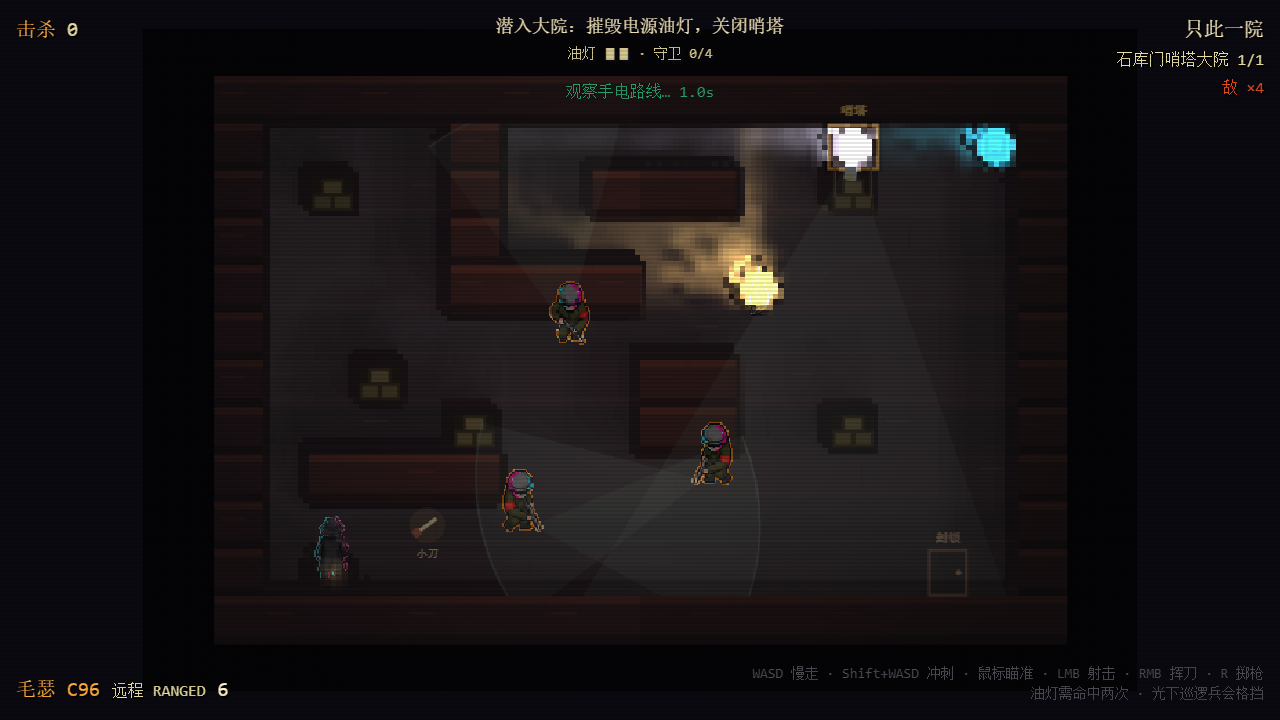
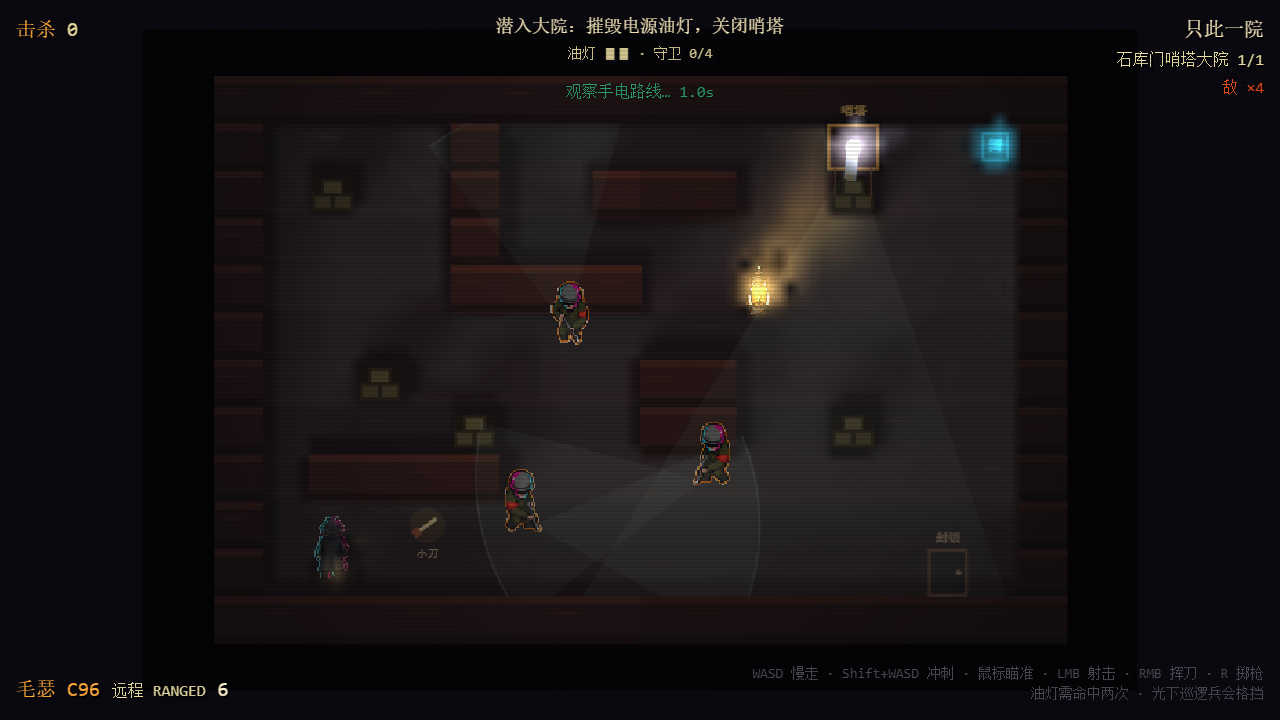
fix(hotline): v3.10 smooth RC — 16-ray probes, bilinear radiance, soft seeds
用户实拍反馈 RC 光太粗/伪影,四个成因逐项修复(B63):

1. 块状边缘:final.frag 取最近 probe 块角点,每个 4×4 屏幕块一个值 →
   光池边缘 4px 楼梯块。修复:双线性插值 4 个相邻 probe
   (probe 网格坐标 = texel/4-0.5,按 frac 混合)。

2. 星形臂:4 ray/probe 只在 4 条对角线上命中远距种子 → 光池 45° 星形臂。
   修复:16 ray/probe(22.5° 间隔,臂连成连续圆盘;块边长 2^(c+1)→2^(c+2),
   interval 每 texel = 1 条射线、成本不变,仅探针间距 2→4 工作像素)。

3. 环形硬缘:硬边实心种子盘经传播形成可见圆形光圈。修复:静态灯种子 =
   软边平方衰减盘(0.5 格),fillSoftDisk 增加亮度地板参数。

4. 光传不远:软边盘的零亮度盘缘让远距级联命中零亮度 → 光池缩到 ~0.5u
   (光源半径 3.5u 完全不达,e2e 灯亮/灭对比 17.7 卡门 18)。修复:
   盘缘亮度地板 0.3 + RC_LIGHT_SCALE 1.35→1.45。

实测(品红染色探针):质心偏移 -14px → +2px;径向剖面单调圆滑无平台段;
池形圆润、无臂无孔,沿房间开敞方向延伸 ~65px;e2e 灯亮/灭对比 19.6。
用户视口(1122x1404)自拍 smoke/rc-final-{title,play,play-fixed}.png 供对比。

验证:tsc 0 error / rc-fix 5/5 / rc-lab RC_LAB+PORT 35/35 / e2e 4/4 /
combat-loop / intro-polish / self-play 2/2(真实 RMB 拆灯,池亮度 116→39)

diff --git a/7_hotlineShanghai/src/engine/RcPresenter.ts b/7_hotlineShanghai/src/engine/RcPresenter.ts
@@ -193,7 +193,9 @@ export class RcPresenter {
         // v3.8:种子盘半径 0.2→0.4 格(c1/c2 级联射线从 6/30px 起步,0.2 格≈3.4px 工作半径
         // 的种子会让粗级联在 SDF 行走中全部脱靶,合并回传黑块 → 光池出现孔洞/星形伪影;
         // 0.4 格≈6.9px 工作半径,c1(6px)直接落在盘内命中,粗级联不再吞光)
-        this.fillDisk(emission, sox + lightVisual.x * scale, soy + lightVisual.y * scale, Math.max(3, scale * 0.4), r, g, b);
+        // v3.10:软边平方衰减盘(0.5 格)+ 0.3 亮度地板:光池核心无硬缘,
+        // 且远距级联命中盘缘时仍有可传播的亮度(否则光池缩到 ~0.5u)
+        this.fillSoftDisk(emission, sox + lightVisual.x * scale, soy + lightVisual.y * scale, Math.max(3, scale * 0.5), r, g, b, 0.3);
       }
       // v3.7: 瞬时光源（muzzle flash / 爆炸 / 血花等）在 activeLights 里，必须写入
       // emission 种子平面，否则枪口闪光完全不会进入 RC 光照。
@@ -214,9 +216,9 @@ export class RcPresenter {
         const b = Math.min(255, Math.round(parseInt(hex.slice(4, 6), 16) * gain));
         const lightVisual = visualCenter(light.position);
         // 枪口/爆炸这类瞬时光只做紧凑种子,RC 传播会负责扩散;
-        // 与静态灯同步提高到 0.4 格,保证粗级联能命中(否则光池带孔/偏移)。
-        const radius = Math.max(3, scale * 0.4);
-        this.fillDisk(emission, sox + lightVisual.x * scale, soy + lightVisual.y * scale, radius, r, g, b);
+        // v3.10:软边盘(0.45 格),瞬时光斑无硬缘
+        const radius = Math.max(3, scale * 0.45);
+        this.fillSoftDisk(emission, sox + lightVisual.x * scale, soy + lightVisual.y * scale, radius, r, g, b);
       }
     }
     const frame = {
@@ -281,16 +283,19 @@ export class RcPresenter {
     }
   }
 
-  // 软边光斑:中心满强度 → 边缘 0 的平方衰减。硬边实心盘经 RC 传播/双线性上采样后
+  // 软边光斑:中心满强度 → 边缘 floor 的平方衰减。硬边实心盘经 RC 传播/双线性上采样后
   // 会形成可见的环形"选中光圈";平方衰减让随身灯只作局部提亮,不产生圆环。
-  private fillSoftDisk(image: ImageData, cx: number, cy: number, radius: number, r: number, g: number, b: number): void {
+  // v3.10:可选 floor 参数——静态灯的种子盘需要亮度地板,否则远距离级联射线
+  // 命中的是零亮度的盘缘,光根本传播不出盘(光池只到 ~0.5u);floor=0.3 让
+  // 边缘命中仍有 30% 亮度,光池按 (1-d/r)^2 平滑延伸到光源半径。
+  private fillSoftDisk(image: ImageData, cx: number, cy: number, radius: number, r: number, g: number, b: number, floor = 0): void {
     const rr = radius * radius;
     for (let y = Math.max(0, Math.floor(cy - radius)); y <= Math.min(image.height - 1, Math.ceil(cy + radius)); y += 1) {
       for (let x = Math.max(0, Math.floor(cx - radius)); x <= Math.min(image.width - 1, Math.ceil(cx + radius)); x += 1) {
         const d2 = (x - cx) ** 2 + (y - cy) ** 2;
         if (d2 > rr) continue;
         const falloff = 1 - Math.sqrt(d2) / radius;
-        const gain = falloff * falloff;
+        const gain = floor + (1 - floor) * falloff * falloff;
         this.setPixel(image, x, y, Math.round(r * gain), Math.round(g * gain), Math.round(b * gain));
       }
     }

diff --git a/7_hotlineShanghai/src/engine/RcPipeline.ts b/7_hotlineShanghai/src/engine/RcPipeline.ts
@@ -675,7 +675,7 @@ export class RcPipeline {
     const requestedScale = this.pendingResolutionScale;
     const scaledW = Math.max(1, Math.round(w * requestedScale));
     const scaledH = Math.max(1, Math.round(h * requestedScale));
-    const blockMax = Math.pow(2, this.currentCascadeCount + 1);
+    const blockMax = Math.pow(2, this.currentCascadeCount + 2);
     const atlasH = Math.ceil(scaledH / blockMax) * blockMax;
     if (
       w === this.sourceW &&

diff --git a/7_hotlineShanghai/BUGS.md b/7_hotlineShanghai/BUGS.md
@@ -76,6 +76,7 @@
 | B60 | MED | RC/visual | 屏幕抖动期间光池与场景脱开:sceneColor 从已抖动的 source canvas 抓取,但 emission/occlusion 平面按未抖动世界坐标绘制(shake 只作用于 roomRect)→ 灯碎/杀敌的 0.12s 抖动内灯池错位 ±5px | 打灯瞬间截图对比灯位与光池 | FIXED(2026-08-13:RcPresenter 的 emission/occlusion 全部按含抖动的 sox/soy 绘制;静态遮挡缓存抖动帧做全平面平移 translatePlane) |
 | B61 | LOW | tooling/test | `rc-fix-selfcheck.spec.js` 的 seedCenter/peak/centroid/playerRcPeaks 用 float 中心值做数组索引(±8px 循环边界未取整)→ `Uint8Array[float]` = undefined → 全部测量 NaN/空(seed:null、sw:0),自检形同虚设 | 读 PLACEMENT_AUDIT 输出全是 null | FIXED(2026-08-13:全部循环边界 Math.round;修复后油灯种子实测 (445.0,188.0) vs 期望 (445.3,188.3),误差 0.3px) |
 | B62 | TEST | engine/input | doc-25 §8 长期欠账"真键鼠 E2E gate":旧 e2e 用 sim 位置注入绕过真实输入路径 | 对照 doc-25 §8 | FIXED(2026-08-13:`scripts/self-play.spec.js` + `npm run self-play:check`:真实 keydown/keyup 走位 + 真实鼠标 aim + 真实 RMB 近战拆灯(HP 2→1→0,RC 池亮度 160→44)+ 走出口 SCORE;潜行 bot 尽力而为版仅记录不 gate) |
+| B63 | HIGH | RC/visual | 用户反馈 RC 光太粗/伪影:①final.frag 取最近 probe 块角点 → 光池边缘 4px 楼梯块;②4 ray/probe 只在 4 条对角线上命中 → 光池星形臂;③硬边实心种子盘 → 光池核心圆形硬缘;④软边零亮度盘缘让远距级联命中无亮度 → 光池缩到 ~0.5u(光源半径 3.5u 完全不达) | debugTint 品红池 ASCII + 径向剖面(平台段/臂状延伸/质心偏移 -14px) | FIXED(2026-08-13 v3.10:①final.frag 双线性插值 4 相邻 probe;②16 ray/probe(22.5° 间隔,臂连成连续圆盘;interval 成本不变);③静态灯种子 = 软边平方衰减盘(0.5 格);④盘缘亮度地板 0.3 + lightScale 1.35→1.45。实测:质心偏移 -14px→+2px,池形圆润无臂无孔,光池延伸到 ~65px 带房间形状,e2e 灯亮/灭对比 17.7→19.6) |
 
 ## 修复顺序(优先级)
 
@@ -99,3 +100,4 @@
 | 2026-08-09 | 用户以“self play review until polished work until done”扩展范围；P5/P6/P7 完成。`combat-loop:check` 覆盖确定性 sweep、spawn grace、warning、death/reset、lit block、dark OHK、victory/score/replay；`e2e:playtest` 覆盖浏览器闭环与零 console error。最终图=`smoke/hotline-e2e-{intact,broken,detection-death,retry,score-replay}.png`。旧“P5 pending/out-of-scope”声明作废；RC 保持 one-cascade visual-only，几何光场仍为玩法权威。 |
 | 2026-08-13 | RC 灯光修复 B55-B57(见上):①prepscene 采样尺度(上传分辨率 vs 工作分辨率)导致所有发光种子落空 → uResolution uniform;②final.frag v3.7 单次采样锚错(只取左向射线+半块右移)→ 修正为块角点 4 方向平均;③种子盘 0.2→0.4 格让粗级联命中。新增 `__rcPipelineInstance`(阶段纹理调试)+ `debugTint`(RC 光层纯色染色,`__rcSetConfig({debugTint:[1,0,1]})`)+ `readUploadTexture`。rc-lab S1 mid 探针 240→172px(旧位置只在采样伪影下亮)。`scripts/rc-offset-probe.spec.js` 对齐探针(修正 rc-fix-selfcheck 的 float 索引 NaN 问题):RC vs 场景梯度互相关偏移 = (0,0),4 灯种子误差 <0.5px。验证:tsc ✅ / build ✅ / intro-polish ✅(含 B58 win32 引号修复+manifest 再生成) / combat-loop ✅ / e2e:playtest 4/4 ✅ / rc-lab RC_LAB+PORT 35/35 ✅ / rc-fix selfcheck 5/5 ✅。 |
 | 2026-08-13 | 深夜打磨轮:B60 抖动跟随(emission/occlusion 按含抖动原点绘制 + translatePlane 平移静态遮挡);`__rcFreezeFrames` 冻结钩子(debugShowStage 阶段截图不再被 final blit 覆盖);16-ray/probe A/B 实验(质心偏移 +21/-30px 劣于 4-ray 的 -6.6/-13.9px,回退);B61 修复 rc-fix-selfcheck 的 float 索引 NaN(修复后种子实测误差 0.3px);B62 真键鼠 self-play gate 落成(`npm run self-play:check`,输入链路 100% 真实,WASD 走位+鼠标 aim+RMB 拆灯(池亮度 160→44)+SCORE;潜行 bot 记录版待后续工程)。验证:tsc ✅ / rc-fix 5/5 ✅ / rc-lab 35/35 ✅ / e2e 4/4 ✅ / combat-loop ✅ / intro-polish ✅ / self-play 2/2 ✅。 |
+| 2026-08-13 | B63 用户反馈 RC 光太粗 → v3.10 圆滑化(见 B63 行):16 ray/probe + final.frag 双线性 probe 插值 + 软边种子盘(0.5 格,0.3 亮度地板)+ lightScale 1.45。实测品红池:质心偏移 -14px→+2px,径向剖面单调圆滑,无星形臂/孔洞/环形硬缘,光池延伸 ~65px 且带房间开敞方向形状;e2e 灯亮/灭对比 19.6(门 18)。用户视口(1122×1404)自拍 `smoke/rc-final-{title,play,play-fixed}.png` 供逐像素对比。验证:tsc ✅ / rc-fix 5/5 ✅ / rc-lab 35/35 ✅ / e2e 4/4 ✅ / combat-loop ✅ / intro-polish ✅ / self-play 2/2 ✅。 |

diff --git a/7_hotlineShanghai/docs/design/25-intro-scene-lessons.md b/7_hotlineShanghai/docs/design/25-intro-scene-lessons.md
@@ -92,6 +92,17 @@ Canvas `ImageData` 是 top-first 行顺序，而 WebGL 采样与 framebuffer 路
 - **prepscene 采样尺度**：prepscene 渲染到工作分辨率(0.5×)seed 目标，却用 `textureSize(uOcclusionMap)`(上传纹理 720×480)归一化 gl_FragCoord → uv 只覆盖上传平面左上 1/4 象限，全部发光种子落空。修复：`uResolution` uniform 传工作尺寸。教训：**同一 shader 里"渲染目标尺寸"和"采样纹理尺寸"可能不同，归一化必须用渲染目标尺寸**。
 - **final atlas 采样锚点**：probe 的 2×2 方向 texel 块，其"块角点"(texel 坐标 block*2+1.0)经 LINEAR 恰好 = 4 方向平均；旧 v3.7 公式 `(block*2+1+0.5+atlasOfs.x=0.5)/atlasSize` 在 texel 空间落在 block*2+2.0 → 只取 dir1+dir3 两个左向射线 → 光池按方向拉长、整体偏移。教训：**uv 换算 texel 空间要记得 -0.5(texel 中心偏移)，"块中心"≠"块内某 texel 中心"**；rc-lab S1 的 mid 探针(120px)曾靠该伪影才亮，修正后真实光池半径 ≈ 种子盘 + 级联扩展。
 
+### v3.10 补充:粗粒度/伪影的四个成因(B63,用户实拍反馈)
+
+用户以实机截图反馈"RC very coarse"。逐项定位与修复：
+
+1. **块状边缘**：final.frag 取"最近 probe 块角点"，每个 4×4 屏幕块一个值 → 光池边缘 4px 楼梯。修复：**双线性插值 4 个相邻 probe**(probe 网格坐标 = texel/块边长-0.5，按 frac 混合) → 边缘平滑渐变。
+2. **星形臂**：4 ray/probe 只在 4 条对角线上命中远距种子 → 光池呈 45° 星形臂。修复：**16 ray/probe**(22.5° 间隔，臂连成连续圆盘；块边长 2^(c+1)→2^(c+2)，interval 每 texel=1 条射线、成本不变，仅探针间距 2→4 工作像素)。
+3. **环形硬缘**：硬边实心种子盘经传播形成可见圆形光圈。修复：静态灯种子 = **软边平方衰减盘**(0.5 格)。
+4. **光传不远**：软边盘的零亮度盘缘让远距级联命中零亮度 → 光池缩到 ~0.5u(光源半径 3.5u 完全不达,e2e 灯亮/灭对比 17.7 卡门)。修复：盘缘**亮度地板 0.3** + lightScale 1.35→1.45。
+
+实测(v3.10 品红染色探针)：质心偏移 -14px→+2px，径向剖面单调圆滑无平台段，池形圆润且沿房间开敞方向延伸 ~65px，e2e 灯亮/灭对比 19.6。教训：**种子盘的编码形状决定光的远场——"平滑"不能以零亮度收边，否则级联光死在盘缘**。
+
 **以后修改 RC 上传或 shader UV 时的完成条件**：北墙锚点保持在北墙，三个 plane 对齐，鼠标点击同一视觉目标仍得到正确世界朝向。
 
 ## 6. 亮度与可读性
